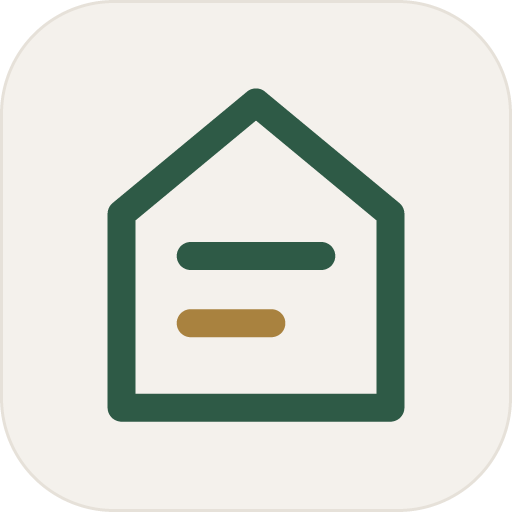
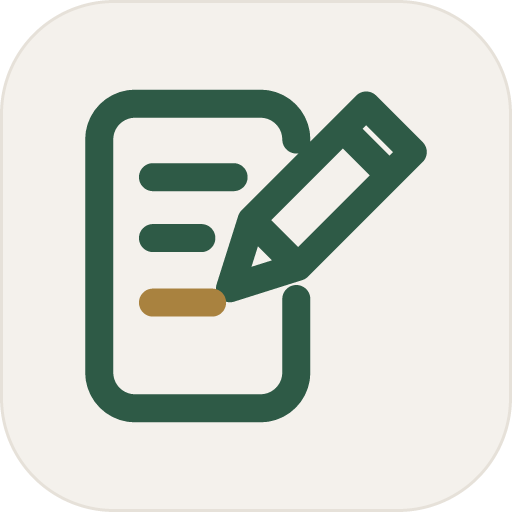
로고·앱 아이콘을 '노트와 연필'(시안 B)로 바꿈
줄 쳐진 노트에 연필로 쓰는 모습으로, 연필심이 닿은 마지막 줄만 금빛이에요.
사이드바·잠금 화면·설정·첫 로딩 화면의 로고(js/dom.js, index.html)와
앱 아이콘 PNG(scripts/make-icons.mjs 로 다시 생성)를 같은 모양으로 맞췄어요.

Claude-Session: https://claude.ai/code/session_01BkkwdYwEnuEjZtUD2HjaHV

Changed region(s): [[0.1562, 0.1562, 0.8438, 0.8438], [0.2188, 0.8125, 0.5, 0.8438]]

diff --git a/index.html b/index.html
@@ -29,7 +29,7 @@
     <div id="banner" class="banner" role="status" hidden></div>
     <main id="view" class="view" tabindex="-1">
       <div class="boot" aria-live="polite">
-        <span class="logo-mark boot-logo" aria-hidden="true"><svg class="ico" viewBox="0 0 24 24" aria-hidden="true" focusable="false" fill="none" stroke="currentColor" stroke-width="1.6" stroke-linecap="round" stroke-linejoin="round"><path d="M5.6 9.3 11 4.85a1.6 1.6 0 0 1 2 0l5.4 4.45a1.6 1.6 0 0 1 .6 1.24v8.36A1.6 1.6 0 0 1 17.4 20.5H6.6A1.6 1.6 0 0 1 5 18.9v-8.36a1.6 1.6 0 0 1 .6-1.24z"/><path d="M8.6 12.6h6.8"/><path class="ico-accent" d="M8.6 16.1h4.2"/></svg></span>
+        <span class="logo-mark boot-logo" aria-hidden="true"><svg class="ico" viewBox="0 0 24 24" aria-hidden="true" focusable="false" fill="none" stroke="currentColor" stroke-width="1.6" stroke-linecap="round" stroke-linejoin="round"><path d="M14 5.5a2 2 0 0 0-2-2H5a2 2 0 0 0-2 2v13a2 2 0 0 0 2 2h7a2 2 0 0 0 2-2v-4.1"/><path d="M6 7.6h4.5M6 11h2.7"/><path class="ico-accent" d="M6 14.6h3.3"/><path d="M17.9 3.6 20.5 6.2 14.1 12.6 10.3 13.8 11.5 10Z"/><path d="M16.6 4.9l2.6 2.6M11.5 10l2.6 2.6"/></svg></span>
         <p class="boot-text">기록장을 펼치는 중…</p>
       </div>
     </main>
@@ -39,7 +39,7 @@
   <!-- 휴대폰: 아래 탭 막대 · 태블릿: 왼쪽 레일 · 노트북: 왼쪽 사이드바 (같은 메뉴를 CSS 로 바꿔 보여 줌) -->
   <nav id="tabbar" class="tabbar" aria-label="주요 메뉴" hidden>
     <div class="side-brand">
-      <span class="logo-mark side-logo" aria-hidden="true"><svg class="ico" viewBox="0 0 24 24" aria-hidden="true" focusable="false" fill="none" stroke="currentColor" stroke-width="1.6" stroke-linecap="round" stroke-linejoin="round"><path d="M5.6 9.3 11 4.85a1.6 1.6 0 0 1 2 0l5.4 4.45a1.6 1.6 0 0 1 .6 1.24v8.36A1.6 1.6 0 0 1 17.4 20.5H6.6A1.6 1.6 0 0 1 5 18.9v-8.36a1.6 1.6 0 0 1 .6-1.24z"/><path d="M8.6 12.6h6.8"/><path class="ico-accent" d="M8.6 16.1h4.2"/></svg></span>
+      <span class="logo-mark side-logo" aria-hidden="true"><svg class="ico" viewBox="0 0 24 24" aria-hidden="true" focusable="false" fill="none" stroke="currentColor" stroke-width="1.6" stroke-linecap="round" stroke-linejoin="round"><path d="M14 5.5a2 2 0 0 0-2-2H5a2 2 0 0 0-2 2v13a2 2 0 0 0 2 2h7a2 2 0 0 0 2-2v-4.1"/><path d="M6 7.6h4.5M6 11h2.7"/><path class="ico-accent" d="M6 14.6h3.3"/><path d="M17.9 3.6 20.5 6.2 14.1 12.6 10.3 13.8 11.5 10Z"/><path d="M16.6 4.9l2.6 2.6M11.5 10l2.6 2.6"/></svg></span>
       <span class="side-brand-text">
         <span class="side-brand-name">또또하우스</span>
         <span class="side-brand-sub">기록장</span>

diff --git a/js/dom.js b/js/dom.js
@@ -120,8 +120,8 @@ const ICONS = {
   image: '<rect x="3.5" y="4.5" width="17" height="15" rx="2.5"/><circle cx="9" cy="9.5" r="1.7"/><path d="M4 17.5l4.6-4.6 3.4 3.4 2.6-2.6 5.4 5.3"/>',
   imageOff: '<path d="M3.5 3.5l17 17"/><path d="M20.5 16.2V7a2.5 2.5 0 0 0-2.5-2.5H8.8M4.4 5.3A2.5 2.5 0 0 0 3.5 7v10A2.5 2.5 0 0 0 6 19.5h12c.5 0 1-.1 1.3-.4"/><path d="M4 17.5l4.6-4.6 3.4 3.4"/>',
   swap: '<path d="M7 4.5 3.5 8 7 11.5"/><path d="M3.5 8h13"/><path d="M17 12.5l3.5 3.5-3.5 3.5"/><path d="M20.5 16h-13"/>',
-  // 로고: 지붕이 있는 집 모양 기록장 (집 = 또또하우스, 안의 줄 = 기록)
-  logo: '<path d="M5.6 9.3 11 4.85a1.6 1.6 0 0 1 2 0l5.4 4.45a1.6 1.6 0 0 1 .6 1.24v8.36A1.6 1.6 0 0 1 17.4 20.5H6.6A1.6 1.6 0 0 1 5 18.9v-8.36a1.6 1.6 0 0 1 .6-1.24z"/><path d="M8.6 12.6h6.8"/><path class="ico-accent" d="M8.6 16.1h4.2"/>',
+  // 로고: 줄 쳐진 노트에 연필로 쓰는 모습 (연필심이 닿은 마지막 줄은 금빛)
+  logo: '<path d="M14 5.5a2 2 0 0 0-2-2H5a2 2 0 0 0-2 2v13a2 2 0 0 0 2 2h7a2 2 0 0 0 2-2v-4.1"/><path d="M6 7.6h4.5M6 11h2.7"/><path class="ico-accent" d="M6 14.6h3.3"/><path d="M17.9 3.6 20.5 6.2 14.1 12.6 10.3 13.8 11.5 10Z"/><path d="M16.6 4.9l2.6 2.6M11.5 10l2.6 2.6"/>',
   // 빈 기록 자리: 작은 기록 카드 (사진 칸 + 줄)
   card: '<rect x="3.5" y="5" width="17" height="14" rx="2.5"/><rect x="6.5" y="8" width="4.5" height="4.5" rx="1"/><path d="M13.5 9h4M13.5 11.6h2.6M6.5 15.8h11"/>',
   // 소장: 뚜껑 덮인 보관 상자

diff --git a/css/app.css b/css/app.css
@@ -559,7 +559,7 @@ body.is-loading .loadbar { opacity: 1; }
   border-top: 1px solid var(--line);
 }
 .side-brand, .side-cta { display: none; }
-/* 로고: 선으로 그린 티켓 + 가운데 작은 금빛 별 */
+/* 로고: 노트와 연필 (마지막 줄만 금빛) */
 .logo-mark { display: inline-grid; place-items: center; flex: none; width: 40px; height: 40px; border-radius: 12px; background: var(--surface); border: 1px solid var(--line); color: var(--accent); }
 .logo-mark .ico { width: 74%; height: 74%; stroke-width: 1.6; }
 .logo-mark .ico-accent { stroke: var(--gold); }

diff --git a/sw.js b/sw.js
@@ -1,7 +1,7 @@
 // 또또하우스 기록장 서비스 워커 — 정적 셸만 캐시. /api/* 는 절대 캐시하지 않음 (항상 네트워크 직행)
 // 배포 전에 npm run bump-sw 로 CACHE_VERSION 을 올리면 새 파일이 바로 반영돼요.
 // (깜빡해도 정적 파일은 뒤에서 새로 받아 두므로 한 번 더 열면 반영돼요)
-const CACHE_VERSION = 'ddh-v13';
+const CACHE_VERSION = 'ddh-v14';
 const CACHE = `ddoddohouse-record-${CACHE_VERSION}`;
 
 const PRECACHE = [

diff --git a/README.md b/README.md
@@ -27,7 +27,7 @@
 - 게임 정보 전의 예전 기록은 그대로 둬요. '내 소장'으로 남긴 예전 기록은 소장 탭에 계속 보이고, 같은 종류·같은 이름의 게임이 딱 하나 등록돼 있으면 그 게임 기록으로 모아서 보여 줘요(보여 줄 때만 묶고 기록은 바꾸지 않아요).
 
 ### 화면
-- 크림색 바탕에 흰 기록 영역, 차분한 진초록 포인트(저장 버튼·선택 상태)를 쓴 담백한 디자인이에요. 입력칸·버튼은 44~48px, 그림자와 큰 아이콘 바탕은 줄였어요. 로고와 앱 아이콘은 지붕이 있는 집 모양 기록장(안에 기록 줄 두 개, 아랫줄은 금빛)이고, 카드 모서리는 16~20px로 맞췄어요. 화면 맨 아래에는 작고 옅게 제작자와 '문의' 링크가 있어요. 글꼴은 Pretendard(사이트에 직접 넣어 둠)예요.
+- 크림색 바탕에 흰 기록 영역, 차분한 진초록 포인트(저장 버튼·선택 상태)를 쓴 담백한 디자인이에요. 입력칸·버튼은 44~48px, 그림자와 큰 아이콘 바탕은 줄였어요. 로고와 앱 아이콘은 줄 쳐진 노트에 연필로 쓰는 모습(연필심이 닿은 마지막 줄은 금빛)이고, 카드 모서리는 16~20px로 맞췄어요. 화면 맨 아래에는 작고 옅게 제작자와 '문의' 링크가 있어요. 글꼴은 Pretendard(사이트에 직접 넣어 둠)예요.
 - 홈: **플레이 기록** 제목 → 낮은 요약 띠(전체 · 이번 달 · 보드게임 · 머미 · 방탈출, 항목명과 숫자를 붙여 '보드게임 12회'처럼) → 최근 기록 → **내 소장 게임**(최대 6개를 작은 표지로, 누르면 게임 상세). 기록이 없으면 '첫 플레이를 기록해 보세요' 한 줄과 **＋ 기록 남기기** 버튼만 있는 낮은 상자, 소장 게임이 없으면 작은 **＋ 소장 게임 등록** 버튼만 보여요. 멤버는 기록하면서 바로 추가할 수 있어서 홈에서 먼저 등록하라고 안내하지 않아요. '이번 달 가장 많이 함께한 멤버'는 멤버 화면에 있어요.
 - 기록 카드: 대표 이미지(그날 첫 사진, 없으면 게임 대표 이미지) · 종류 · 제목 · 날짜 | 점선 | ★ 별점 · 감상의 첫 부분(두 줄). 스포일러 기록의 감상은 카드에서도 열기 전까지 가려요. 노트북에서 2~3열, 휴대폰에서 1열.
 - 기록 목록: 위에 종류 탭, 검색 · **필터** 버튼 · 정렬. 필터(함께한 멤버·태그·소장)는 버튼으로 접어 두고, 적용 중인 필터는 칩으로 보여 하나씩 또는 **모두 해제**로 풀어요.
